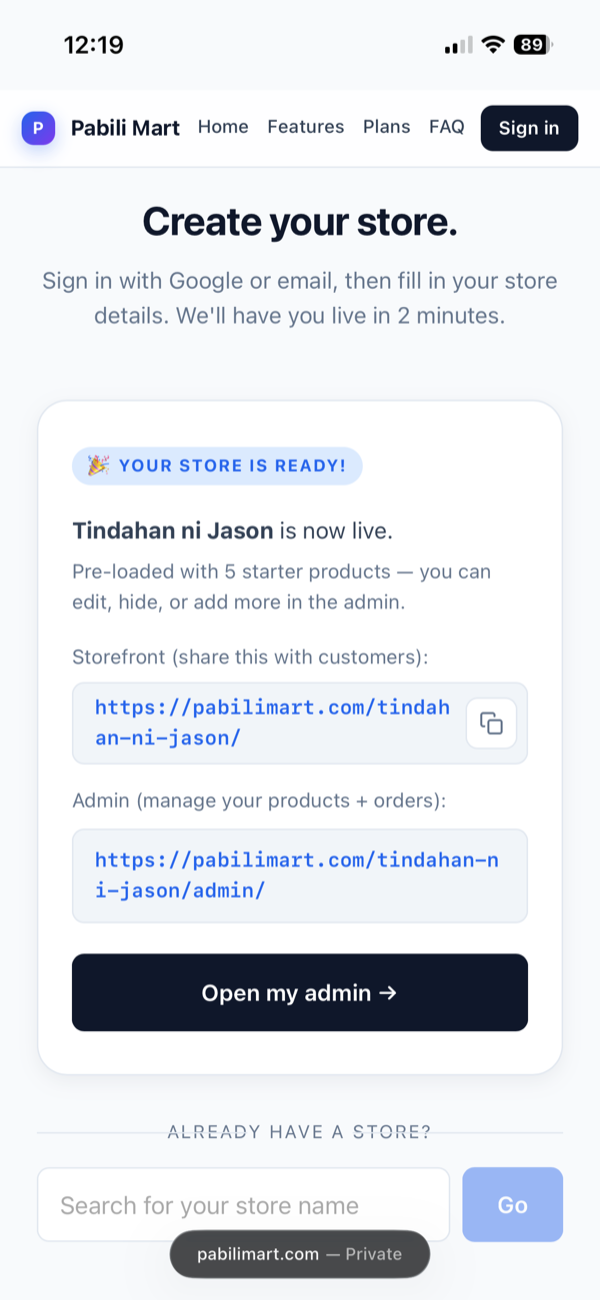
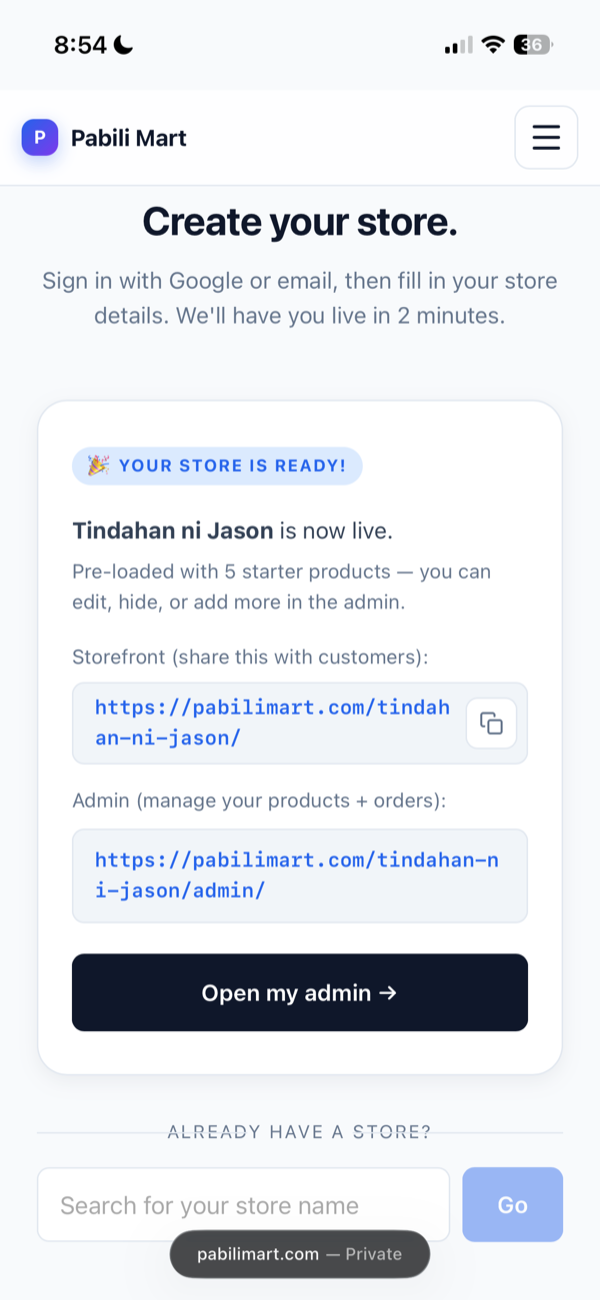
Guide: refresh step screenshots with current-design captures
Replace all 8 guide screenshots with new captures reflecting the current
UI (hamburger nav, updated storefront/admin). Re-redact the email on
step-4 to jason...@gmail.com in-pixel. Add ?v=2 to the img URLs to bust
the immutable 1-year image cache so returning visitors get the new shots
instead of the previously cached ones (same filenames, new content).

Bumps sw.js cache v291 -> v292. Hosting-only.

diff --git a/signup/index.html b/signup/index.html
@@ -2515,7 +2515,7 @@
               <span><strong>Walang bayad.</strong> Walang kailangang credit card — live ang store mo in 2 minutes.</span>
             </div>
           </div>
-          <div class="guide-shot"><img src="/signup/img/step-1.png" width="600" height="1300" loading="lazy" alt="Pabili Mart home page na may ‘Start your store free’ button"></div>
+          <div class="guide-shot"><img src="/signup/img/step-1.png?v=2" width="600" height="1300" loading="lazy" alt="Pabili Mart home page na may ‘Start your store free’ button"></div>
         </div>
       </div>
 
@@ -2535,7 +2535,7 @@
               <span>May account ka na? I-tap ang <strong>“Have an account? Sign in.”</strong></span>
             </div>
           </div>
-          <div class="guide-shot"><img src="/signup/img/step-2.png" width="600" height="1300" loading="lazy" alt="Create your store — Continue with Google o email at password"></div>
+          <div class="guide-shot"><img src="/signup/img/step-2.png?v=2" width="600" height="1300" loading="lazy" alt="Create your store — Continue with Google o email at password"></div>
         </div>
       </div>
 
@@ -2555,7 +2555,7 @@
               <span>Kung <strong>email + password</strong> ang ginamit mo, <strong>laktawan</strong> ang hakbang na ito.</span>
             </div>
           </div>
-          <div class="guide-shot"><img src="/signup/img/step-3.png" width="600" height="1300" loading="lazy" alt="Google sign-in page para sa pabilimart.com"></div>
+          <div class="guide-shot"><img src="/signup/img/step-3.png?v=2" width="600" height="1300" loading="lazy" alt="Google sign-in page para sa pabilimart.com"></div>
         </div>
       </div>
 
@@ -2575,7 +2575,7 @@
               <span>URL rule: <strong>lowercase letters, numbers, at hyphens</strong> lang — 3 hanggang 32 characters.</span>
             </div>
           </div>
-          <div class="guide-shot"><img src="/signup/img/step-4.png" width="600" height="1300" loading="lazy" alt="Store name at Store URL setup"></div>
+          <div class="guide-shot"><img src="/signup/img/step-4.png?v=2" width="600" height="1300" loading="lazy" alt="Store name at Store URL setup"></div>
         </div>
       </div>
 
@@ -2592,7 +2592,7 @@
               <li><strong>Invite code</strong> ay optional — iwanang blangko. Tapos i-tap ang <strong>Create my store</strong>.</li>
             </ul>
           </div>
-          <div class="guide-shot"><img src="/signup/img/step-5.png" width="600" height="1300" loading="lazy" alt="Store address, GCash details, at invite code"></div>
+          <div class="guide-shot"><img src="/signup/img/step-5.png?v=2" width="600" height="1300" loading="lazy" alt="Store address, GCash details, at invite code"></div>
         </div>
       </div>
 
@@ -2612,7 +2612,7 @@
               <span>I-save ang storefront link — ito ang i-share mo sa mga suki para makapag-order.</span>
             </div>
           </div>
-          <div class="guide-shot"><img src="/signup/img/step-6.png" width="600" height="1300" loading="lazy" alt="Your store is ready — storefront at admin links"></div>
+          <div class="guide-shot"><img src="/signup/img/step-6.png?v=2" width="600" height="1300" loading="lazy" alt="Your store is ready — storefront at admin links"></div>
         </div>
       </div>
 
@@ -2632,7 +2632,7 @@
               <span>I-tap ang green na <strong>Storefront</strong> button para makita ang nakikita ng customers.</span>
             </div>
           </div>
-          <div class="guide-shot"><img src="/signup/img/step-7.png" width="600" height="1300" loading="lazy" alt="Admin dashboard na may sales stats"></div>
+          <div class="guide-shot"><img src="/signup/img/step-7.png?v=2" width="600" height="1300" loading="lazy" alt="Admin dashboard na may sales stats"></div>
         </div>
       </div>
 
@@ -2652,7 +2652,7 @@
               <span><strong>Tapos ka na!</strong> Live na ang tindahan mo online.</span>
             </div>
           </div>
-          <div class="guide-shot"><img src="/signup/img/step-8.png" width="600" height="1300" loading="lazy" alt="Live storefront na may products at presyo"></div>
+          <div class="guide-shot"><img src="/signup/img/step-8.png?v=2" width="600" height="1300" loading="lazy" alt="Live storefront na may products at presyo"></div>
         </div>
       </div>
 

diff --git a/sw.js b/sw.js
@@ -1,4 +1,4 @@
-const CACHE = 'sari-sari-v291';
+const CACHE = 'sari-sari-v292';
 const PRECACHE = [
   '/logo.PNG',
   '/newlogo.jpeg',
